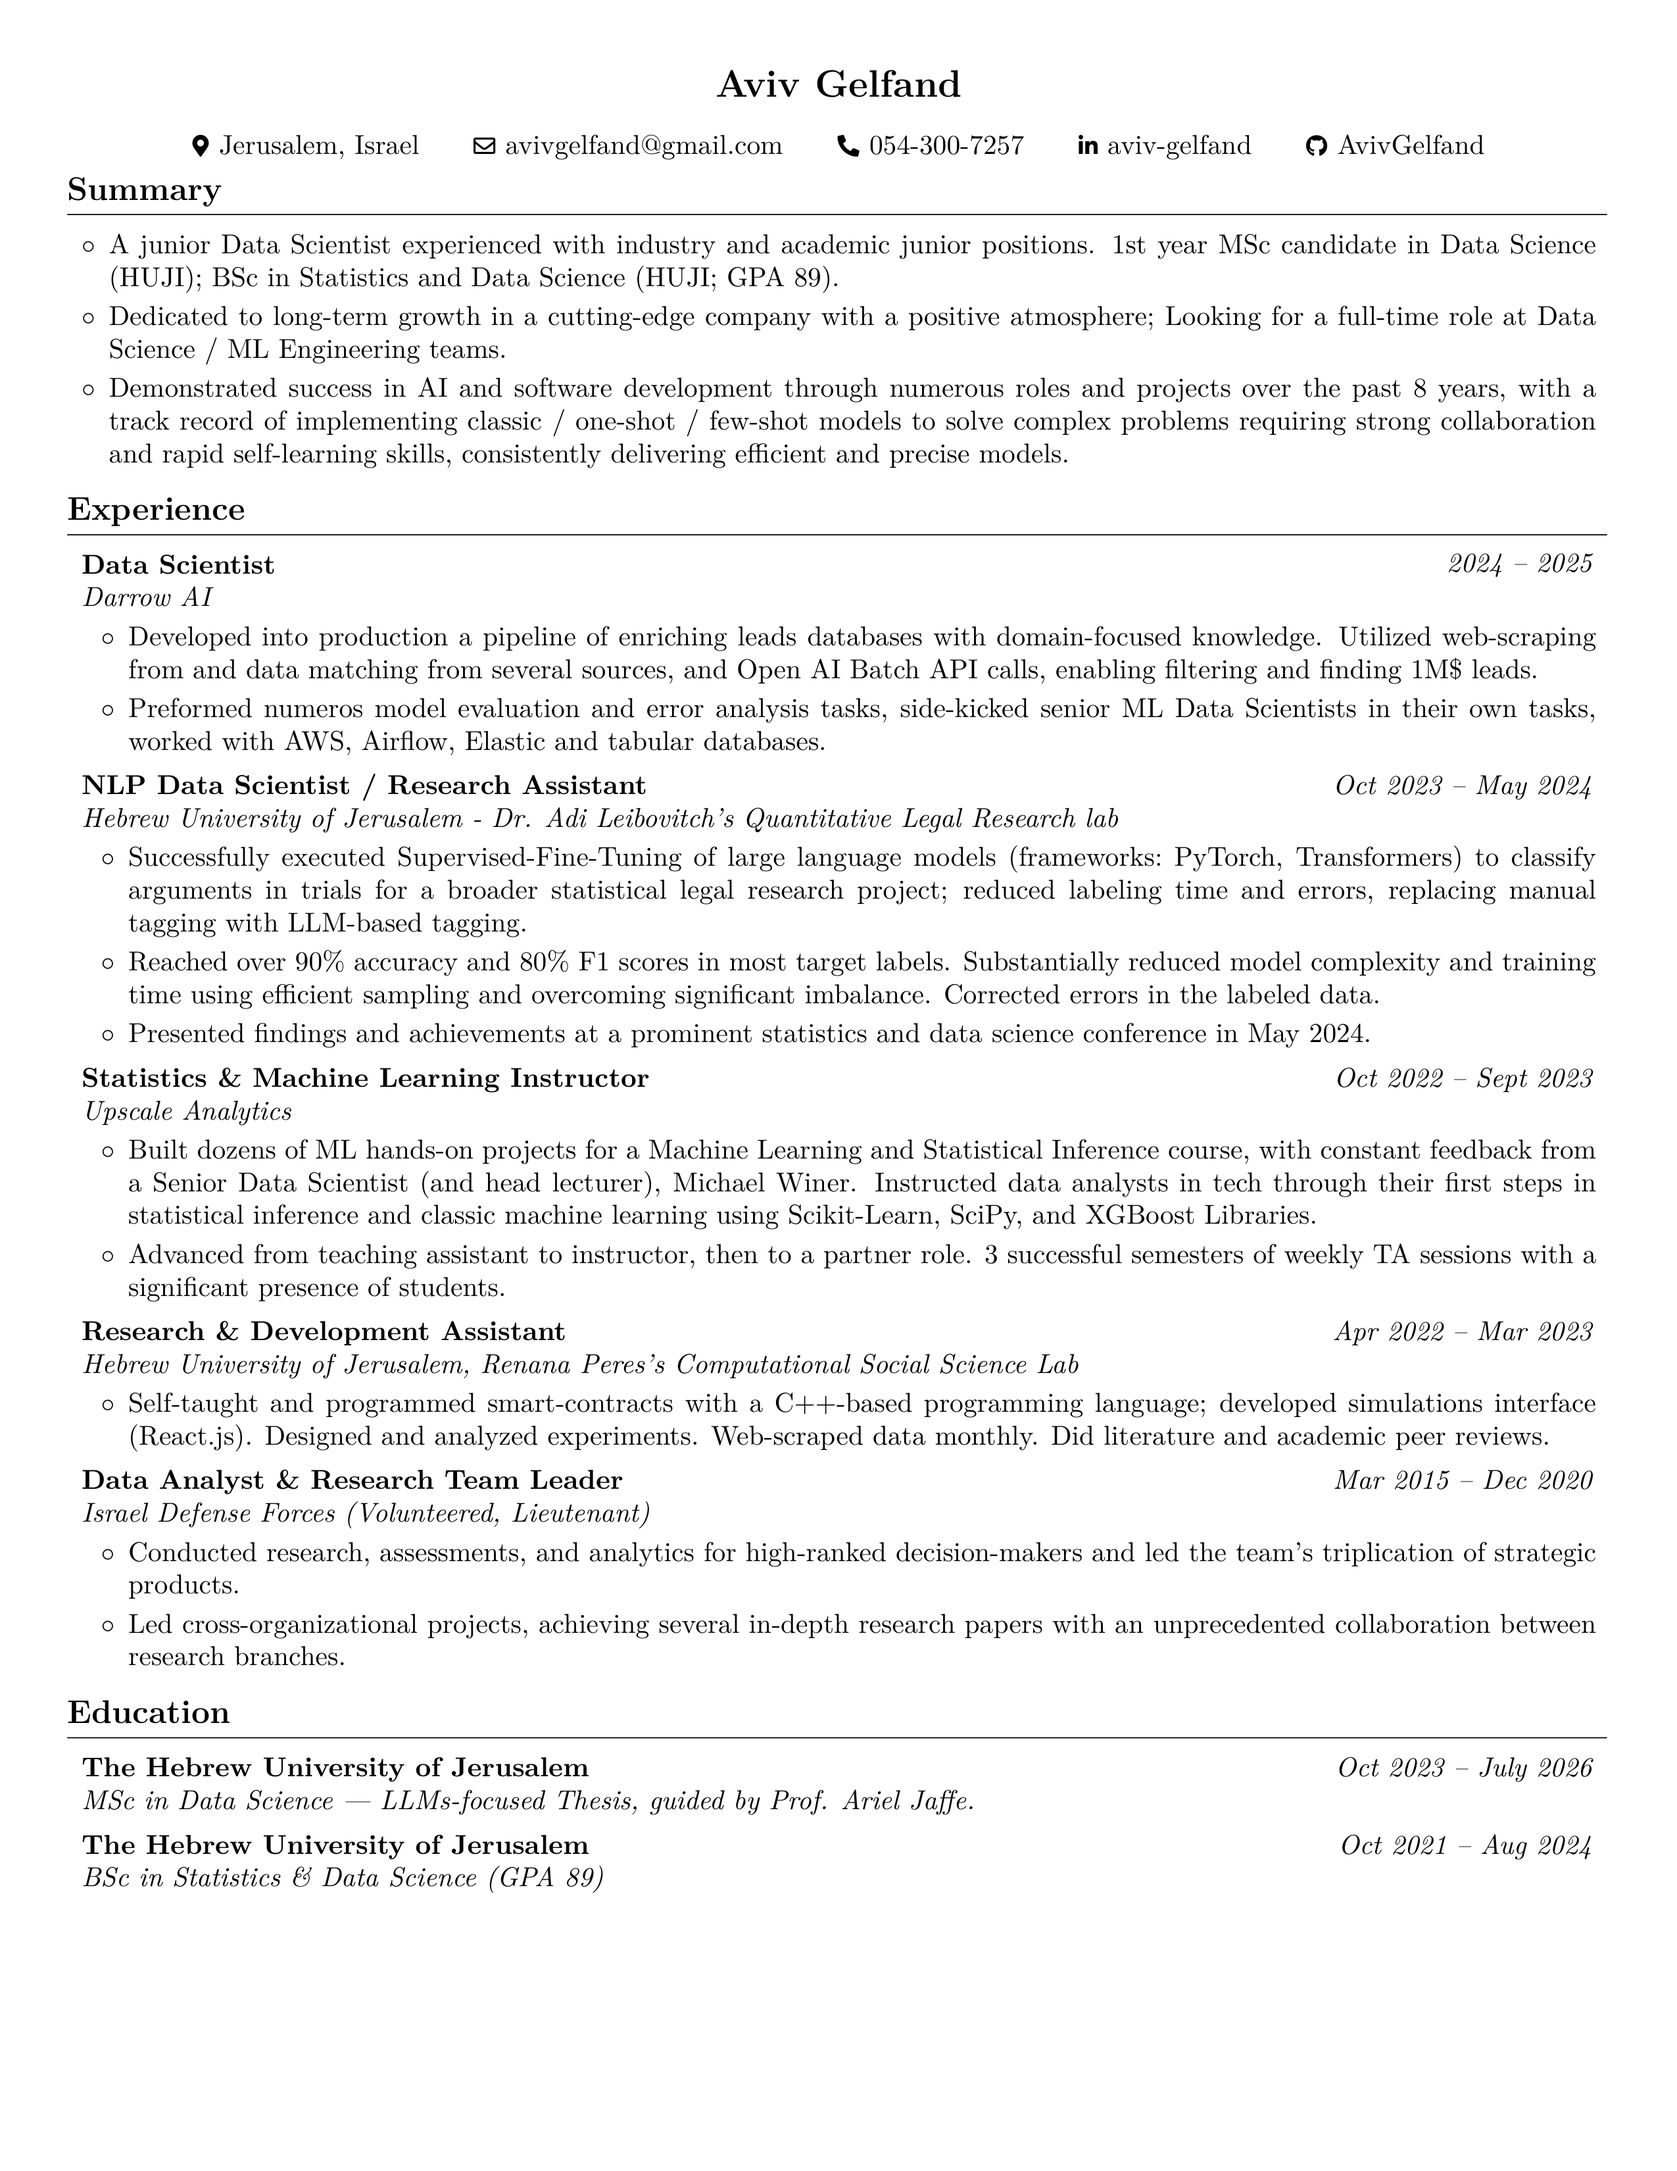
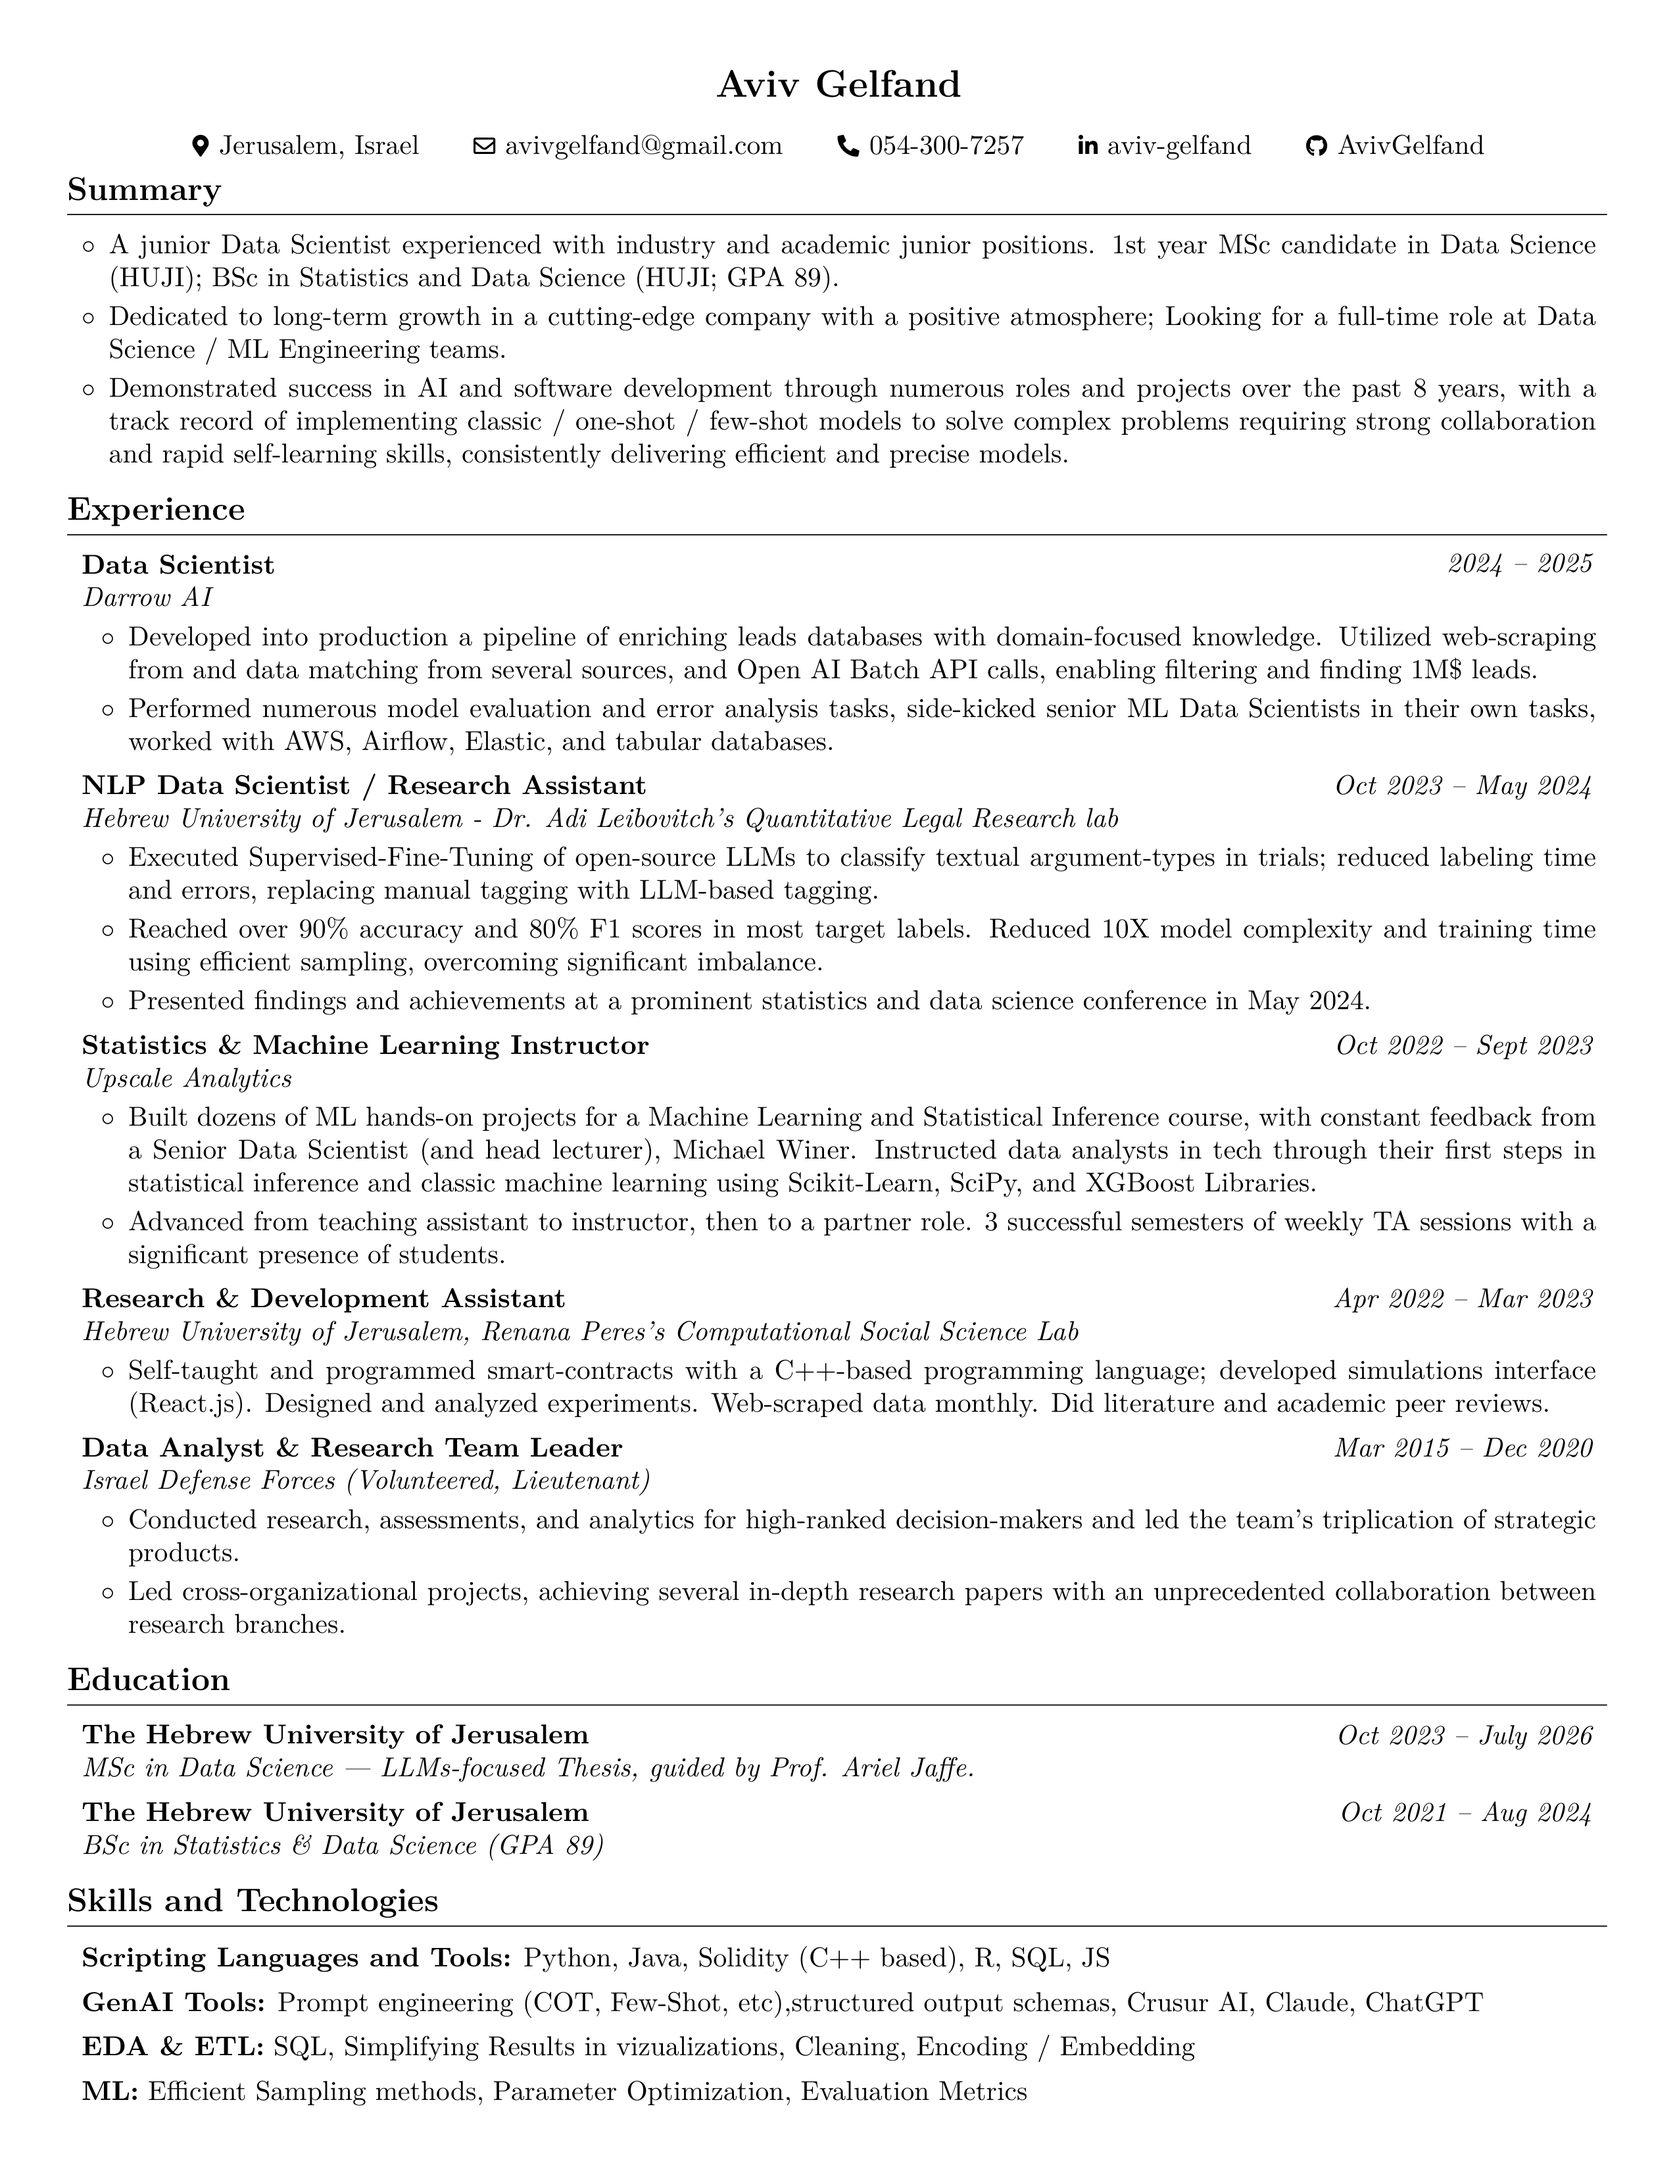
Render the latest CV

diff --git a/Aviv_Gelfand_CV.html b/Aviv_Gelfand_CV.html
@@ -51,13 +51,13 @@
         <ul>
         <li>2024 – 2025</li>
         <li>Developed into production a pipeline of enriching leads databases with domain-focused knowledge. Utilized web-scraping from and data matching from several sources, and Open AI Batch API calls, enabling filtering and finding 1M\$ leads.</li>
-        <li>Preformed numeros model evaluation and error analysis tasks, side-kicked senior ML Data Scientists in their own tasks, worked with AWS, Airflow, Elastic and tabular databases.</li>
+        <li>Performed numerous model evaluation and error analysis tasks, side-kicked senior ML Data Scientists in their own tasks, worked with AWS, Airflow, Elastic, and tabular databases.</li>
         </ul>
         <h2>Hebrew University of Jerusalem - Dr. Adi Leibovitch's Quantitative Legal Research lab, NLP Data Scientist / Research Assistant</h2>
         <ul>
         <li>Oct 2023 – May 2024</li>
-        <li>Successfully executed Supervised-Fine-Tuning of large language models (frameworks$:$ PyTorch, Transformers) to classify arguments in trials for a broader statistical legal research project; reduced labeling time and errors, replacing manual tagging with LLM-based tagging.</li>
-        <li>Reached over 90% accuracy and 80% F1 scores in most target labels. Substantially reduced model complexity and training time using efficient sampling and overcoming significant imbalance. Corrected errors in the labeled data.</li>
+        <li>Executed Supervised-Fine-Tuning of open-source LLMs to classify textual argument-types in trials; reduced labeling time and errors, replacing manual tagging with LLM-based tagging.</li>
+        <li>Reached over 90% accuracy and 80% F1 scores in most target labels. Reduced 10X model complexity and training time using efficient sampling, overcoming significant imbalance.</li>
         <li>Presented findings and achievements at a prominent statistics and data science conference in May 2024.</li>
         </ul>
         <h2>Upscale Analytics, Statistics &amp; Machine Learning Instructor</h2>
@@ -89,10 +89,9 @@
         <h1>Skills and Technologies</h1>
         <ul>
         <li>Scripting Languages and Tools: Python, Java, Solidity (C++ based), R, SQL, JS</li>
-        <li>Programming Libraries: Pandas, PyTorch, Transformers, SKlearn, LLM's SDK (OpenAI, Groq, etc) and more.</li>
-        <li>GenAI Tools: Prompt engineering (COT, etc), Crusur AI, Claude, ChatGPT, Perplexity, a 'Langtalks' fan</li>
-        <li>EDA &amp; ETL: Basic and complex Visualizations, Statistical Inference and modeling, Cleaning, Encoding / Embedding</li>
-        <li>ML: Efficient Sampling, Feature Engineering, Parameters Optimization, Evaluation Metrics</li>
+        <li>GenAI Tools: Prompt engineering (COT, Few-Shot, etc),structured output schemas, Crusur AI, Claude, ChatGPT</li>
+        <li>EDA &amp; ETL: SQL, Simplifying Results in vizualizations, Cleaning, Encoding / Embedding</li>
+        <li>ML: Efficient Sampling methods, Parameter Optimization, Evaluation Metrics</li>
         <li>CI/CD &amp; Other: GIT, Linux, SLURM Cluster system, GitHub workflows, shell scripts, Big Query (proficient with SQL), Data-Bricks, Apache Spark</li>
         </ul>
     </article>

diff --git a/Aviv_Gelfand_CV.tex b/Aviv_Gelfand_CV.tex
@@ -209,7 +209,7 @@
         \begin{onecolentry}
             \begin{highlights}
                 \item Developed into production a pipeline of enriching leads databases with domain-focused knowledge. Utilized web-scraping from and data matching from several sources, and Open AI Batch API calls, enabling filtering and finding 1M\$ leads.
-                \item Preformed numeros model evaluation and error analysis tasks, side-kicked senior ML Data Scientists in their own tasks, worked with AWS, Airflow, Elastic and tabular databases.
+                \item Performed numerous model evaluation and error analysis tasks, side-kicked senior ML Data Scientists in their own tasks, worked with AWS, Airflow, Elastic, and tabular databases.
             \end{highlights}
         \end{onecolentry}
 
@@ -228,8 +228,8 @@
         \vspace{0.08 cm}
         \begin{onecolentry}
             \begin{highlights}
-                \item Successfully executed Supervised-Fine-Tuning of large language models (frameworks$:$ PyTorch, Transformers) to classify arguments in trials for a broader statistical legal research project; reduced labeling time and errors, replacing manual tagging with LLM-based tagging.
-                \item Reached over 90\% accuracy and 80\% F1 scores in most target labels. Substantially reduced model complexity and training time using efficient sampling and overcoming significant imbalance. Corrected errors in the labeled data.
+                \item Executed Supervised-Fine-Tuning of open-source LLMs to classify textual argument-types in trials; reduced labeling time and errors, replacing manual tagging with LLM-based tagging.
+                \item Reached over 90\% accuracy and 80\% F1 scores in most target labels. Reduced 10X model complexity and training time using efficient sampling, overcoming significant imbalance.
                 \item Presented findings and achievements at a prominent statistics and data science conference in May 2024.
             \end{highlights}
         \end{onecolentry}
@@ -339,25 +339,19 @@
         \vspace{0.15 cm}
 
         \begin{onecolentry}
-            \textbf{Programming Libraries:} Pandas, PyTorch, Transformers, SKlearn, LLM's SDK (OpenAI, Groq, etc) and more.
+            \textbf{GenAI Tools:} Prompt engineering (COT, Few-Shot, etc),structured output schemas, Crusur AI, Claude, ChatGPT
         \end{onecolentry}
 
         \vspace{0.15 cm}
 
         \begin{onecolentry}
-            \textbf{GenAI Tools:} Prompt engineering (COT, etc), Crusur AI, Claude, ChatGPT, Perplexity, a 'Langtalks' fan
+            \textbf{EDA \& ETL:} SQL, Simplifying Results in vizualizations, Cleaning, Encoding / Embedding
         \end{onecolentry}
 
         \vspace{0.15 cm}
 
         \begin{onecolentry}
-            \textbf{EDA \& ETL:} Basic and complex Visualizations, Statistical Inference and modeling, Cleaning, Encoding / Embedding
-        \end{onecolentry}
-
-        \vspace{0.15 cm}
-
-        \begin{onecolentry}
-            \textbf{ML:} Efficient Sampling, Feature Engineering, Parameters Optimization, Evaluation Metrics
+            \textbf{ML:} Efficient Sampling methods, Parameter Optimization, Evaluation Metrics
         \end{onecolentry}
 
         \vspace{0.15 cm}

diff --git a/README.md b/README.md
@@ -20,13 +20,13 @@
 
 - 2024 – 2025
 - Developed into production a pipeline of enriching leads databases with domain-focused knowledge. Utilized web-scraping from and data matching from several sources, and Open AI Batch API calls, enabling filtering and finding 1M\$ leads.
-- Preformed numeros model evaluation and error analysis tasks, side-kicked senior ML Data Scientists in their own tasks, worked with AWS, Airflow, Elastic and tabular databases.
+- Performed numerous model evaluation and error analysis tasks, side-kicked senior ML Data Scientists in their own tasks, worked with AWS, Airflow, Elastic, and tabular databases.
 
 ## Hebrew University of Jerusalem - Dr. Adi Leibovitch's Quantitative Legal Research lab, NLP Data Scientist / Research Assistant
 
 - Oct 2023 – May 2024
-- Successfully executed Supervised-Fine-Tuning of large language models (frameworks$:$ PyTorch, Transformers) to classify arguments in trials for a broader statistical legal research project; reduced labeling time and errors, replacing manual tagging with LLM-based tagging.
-- Reached over 90% accuracy and 80% F1 scores in most target labels. Substantially reduced model complexity and training time using efficient sampling and overcoming significant imbalance. Corrected errors in the labeled data.
+- Executed Supervised-Fine-Tuning of open-source LLMs to classify textual argument-types in trials; reduced labeling time and errors, replacing manual tagging with LLM-based tagging.
+- Reached over 90% accuracy and 80% F1 scores in most target labels. Reduced 10X model complexity and training time using efficient sampling, overcoming significant imbalance.
 - Presented findings and achievements at a prominent statistics and data science conference in May 2024.
 
 ## Upscale Analytics, Statistics & Machine Learning Instructor
@@ -59,8 +59,7 @@
 # Skills and Technologies
 
 - Scripting Languages and Tools: Python, Java, Solidity (C++ based), R, SQL, JS
-- Programming Libraries: Pandas, PyTorch, Transformers, SKlearn, LLM's SDK (OpenAI, Groq, etc) and more.
-- GenAI Tools: Prompt engineering (COT, etc), Crusur AI, Claude, ChatGPT, Perplexity, a 'Langtalks' fan
-- EDA & ETL: Basic and complex Visualizations, Statistical Inference and modeling, Cleaning, Encoding / Embedding
-- ML: Efficient Sampling, Feature Engineering, Parameters Optimization, Evaluation Metrics
+- GenAI Tools: Prompt engineering (COT, Few-Shot, etc),structured output schemas, Crusur AI, Claude, ChatGPT
+- EDA & ETL: SQL, Simplifying Results in vizualizations, Cleaning, Encoding / Embedding
+- ML: Efficient Sampling methods, Parameter Optimization, Evaluation Metrics
 - CI/CD & Other: GIT, Linux, SLURM Cluster system, GitHub workflows, shell scripts, Big Query (proficient with SQL), Data-Bricks, Apache Spark
